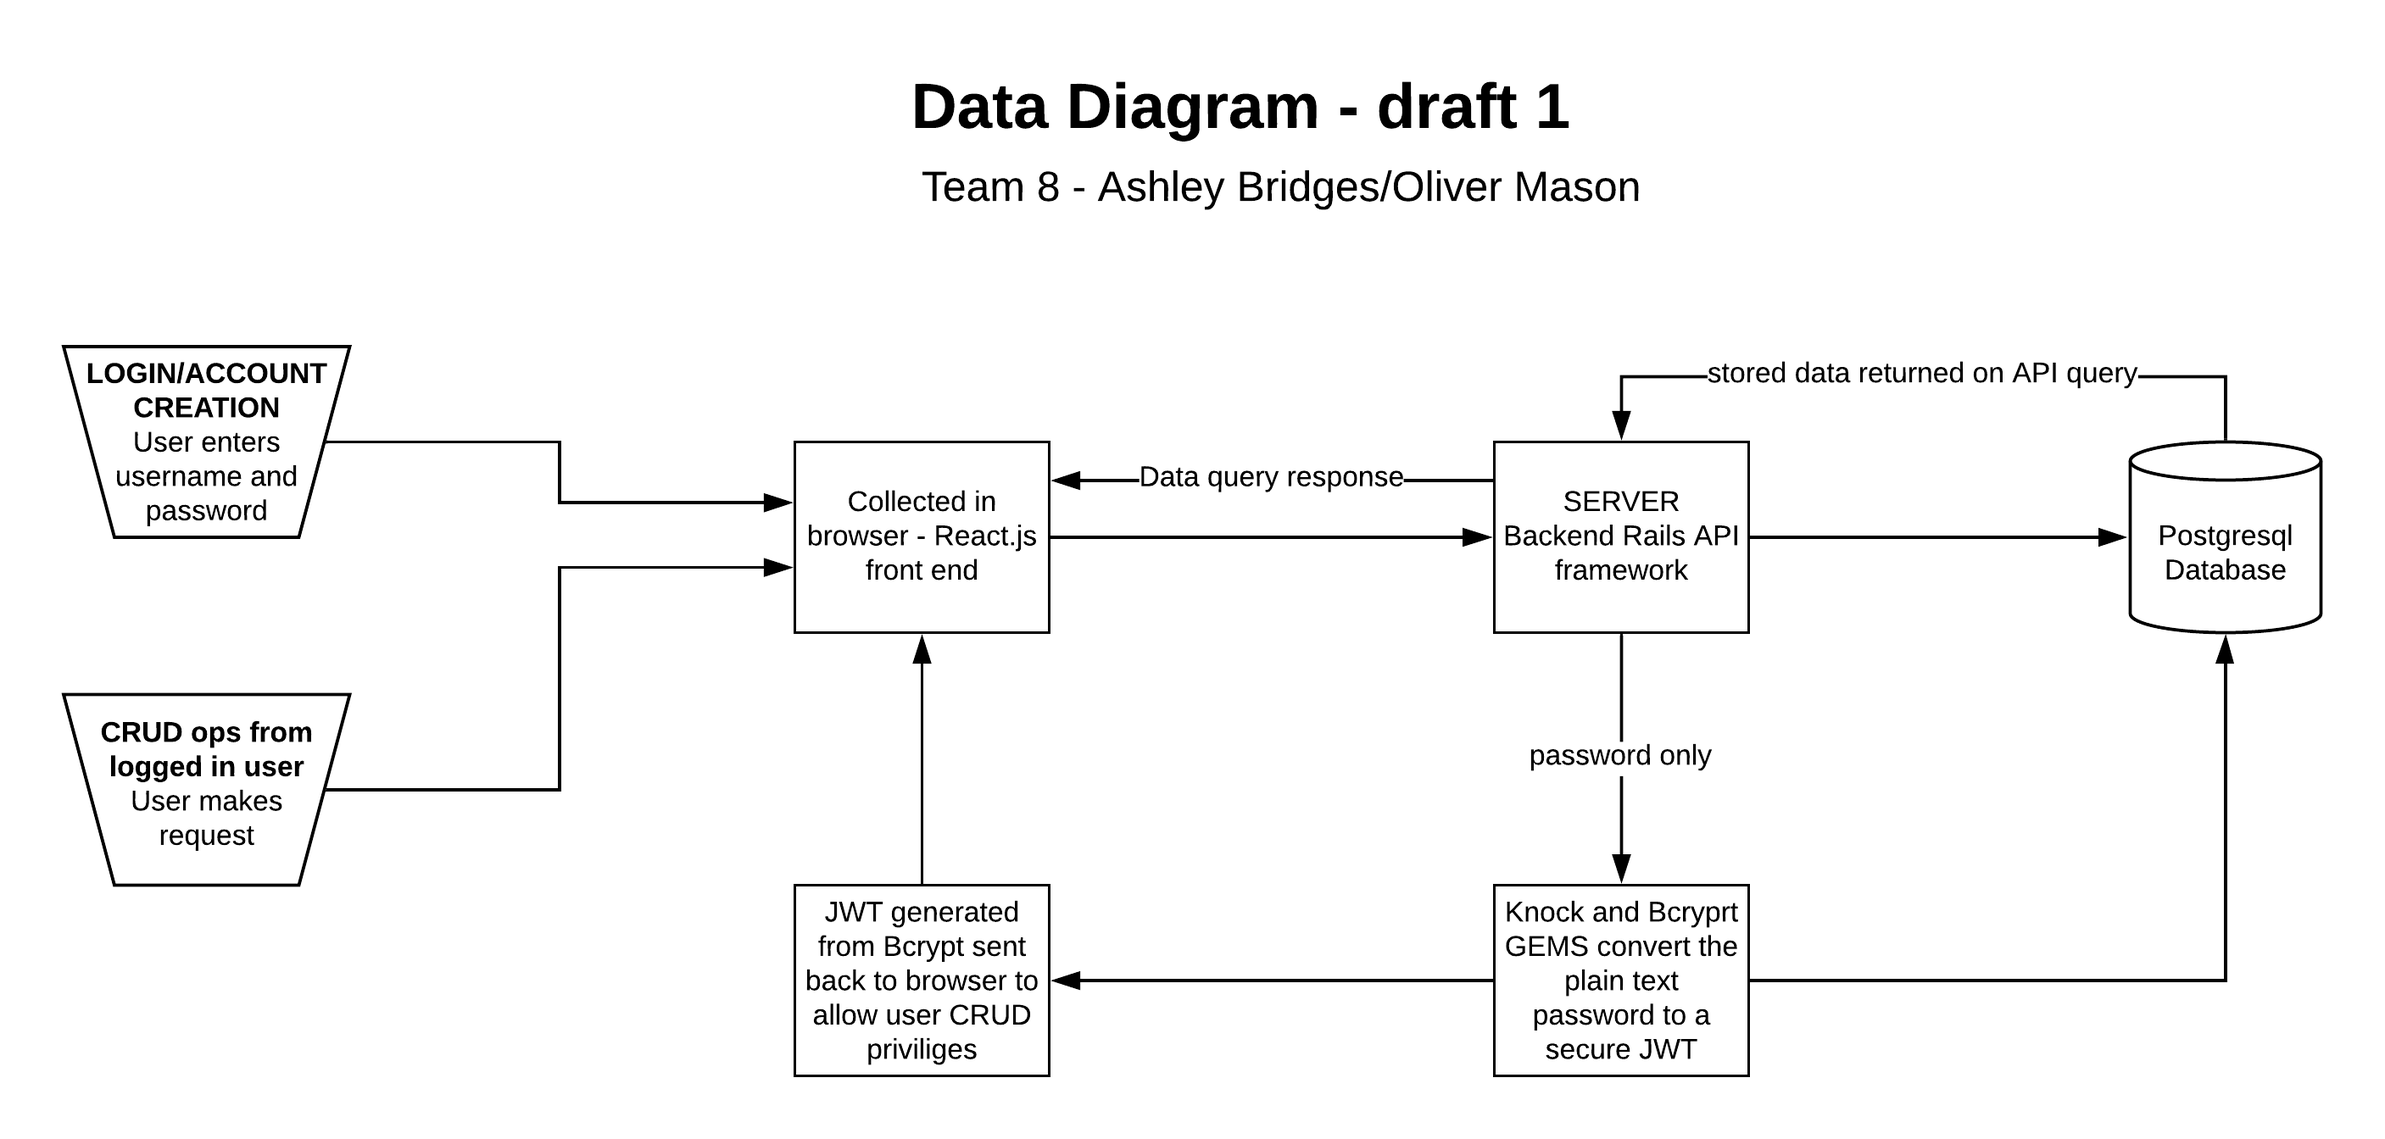
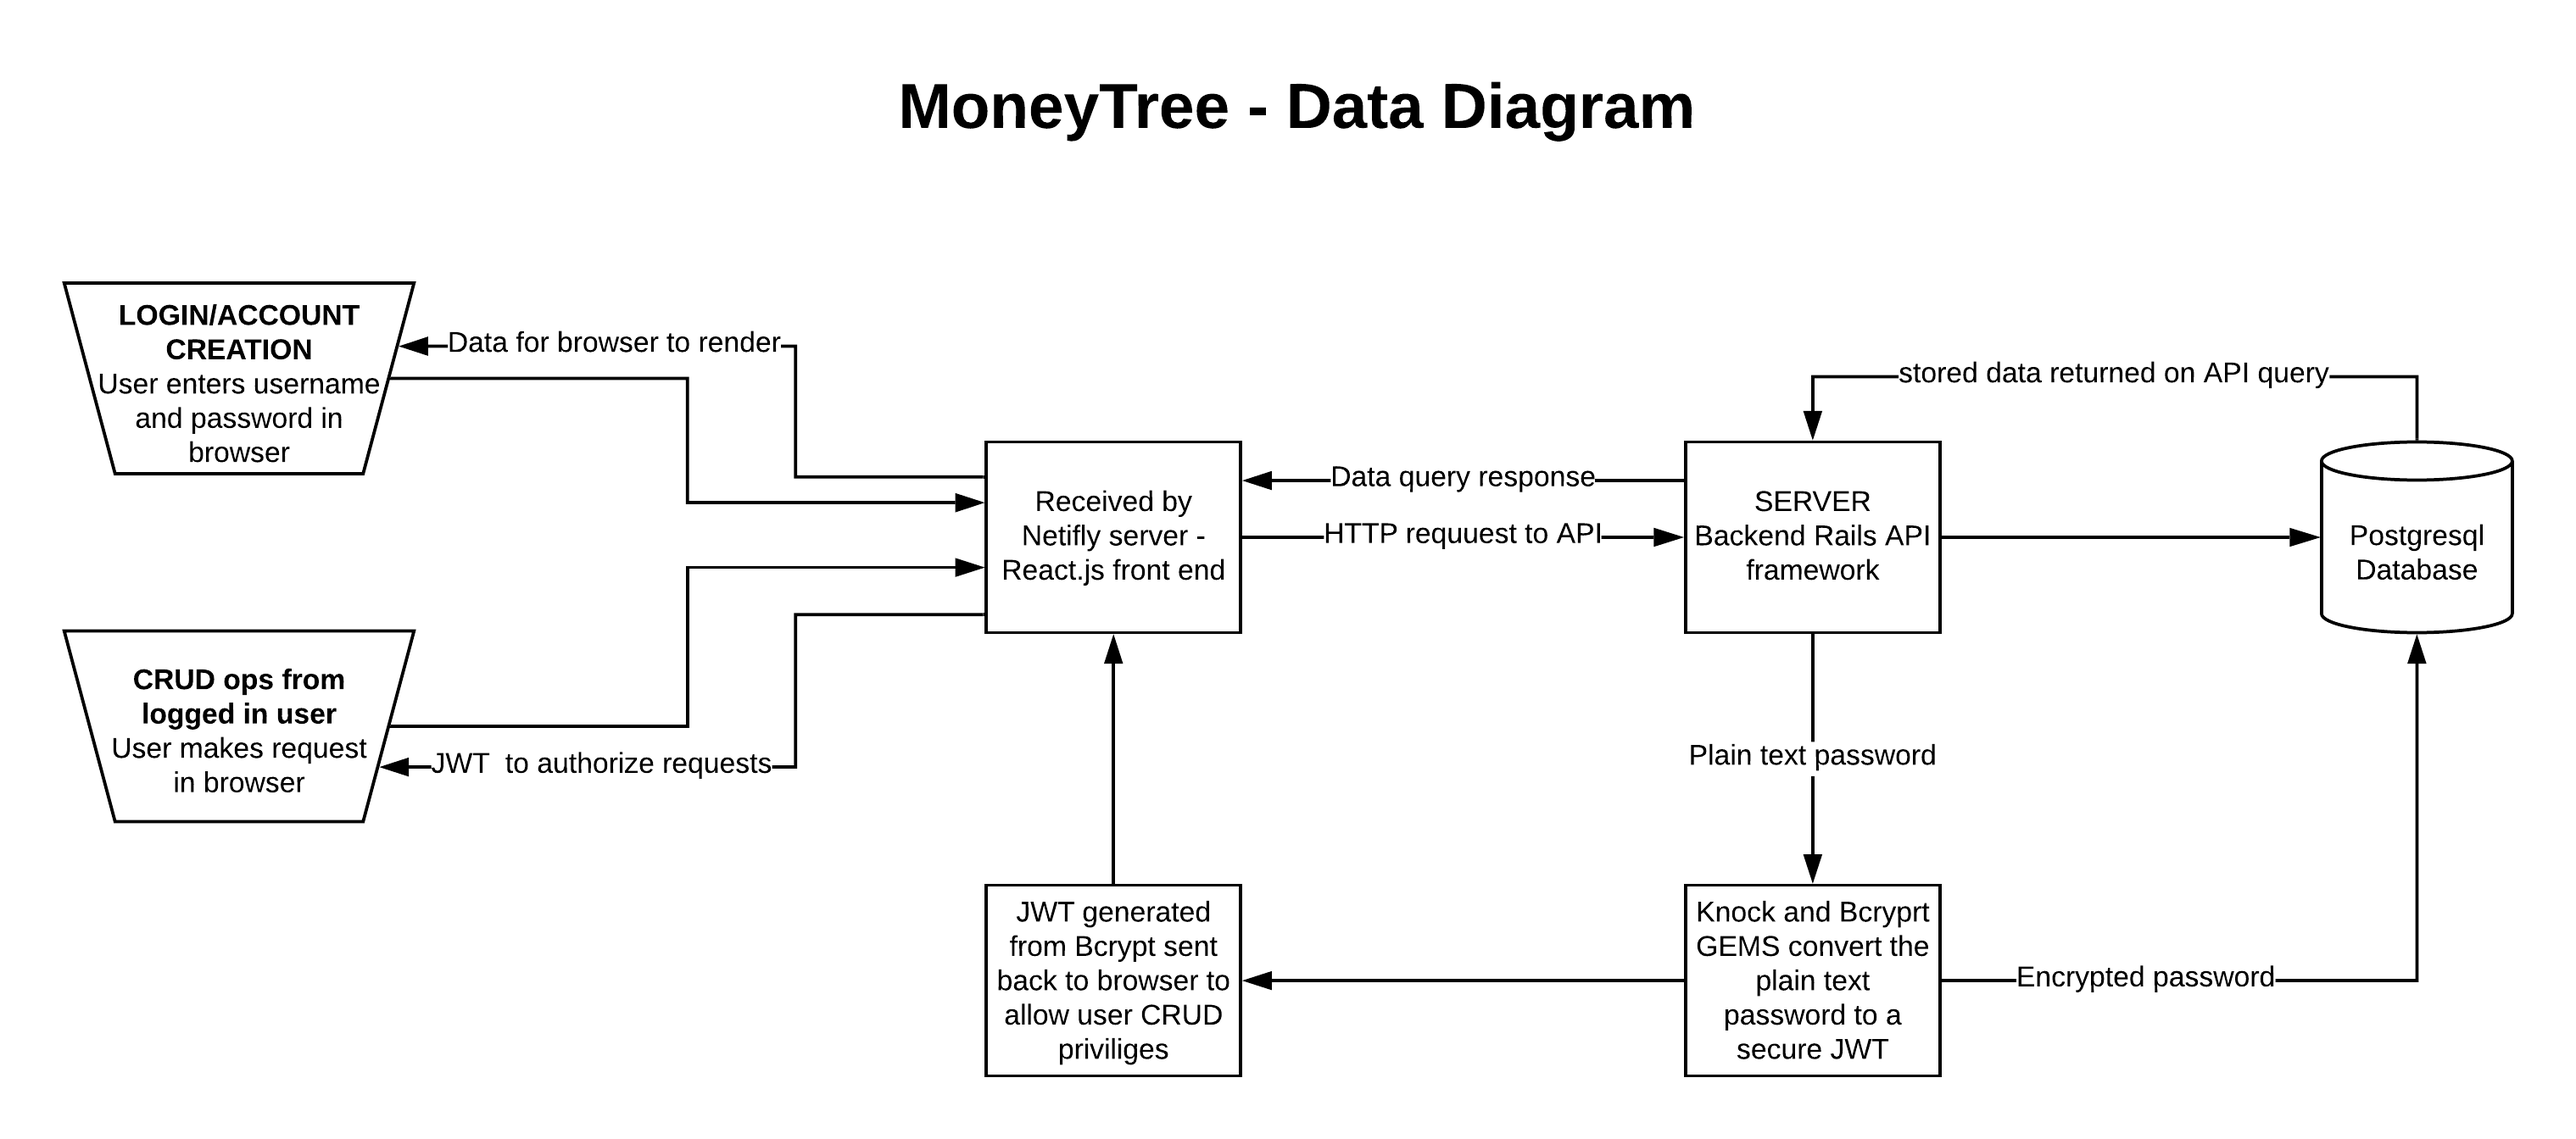
Finish first draft written docs

diff --git a/README.md b/README.md
@@ -51,16 +51,23 @@ Testing will be performed using cypress.js.
 
 ### R2 Dataflow Diagram
 
-Where is the data from, where does it go? What happens to it?
-Board components.
-User login and password.
-Any API's.
-ERD:
-
 <img src="Resources/DataDiagram.png">
+
+All data is initially input by the user in their browser. Upon hitting submit, the information is passed via the front end Netifly server to the Rails API.
+
+When creating an account, their plain text password will be converted in to a secure hash by Bcrypt, before being stored in the postgres database. At the same time a JSON Web Token will be returned to the user browser via the API, logging the user in.
+
+All future requests (whether view a page, or to create/edit/delete data) will require this JWT received back from the API to authenticate them. 
+
+All data will flow over and back over the same basic route (browser/front end/back end/database). As the user creates and edits board components in their browser, they are updating the values of the data held on the database - outlined below: 
 
 <img src="Resources/ERD.png">
 
+The database structure required for the app to function is very simple as not much information is being held.
+
+- The User entity exists to be able to create a user login profile which will be tied to their personalised and secure data.
+- A Column entity exists to create the vertical column categories displayed on the webpage. These in turn hold the main board tiles (which at times may be empty placeholders). A user can have many columns but every column can only have one user.
+- The board items, or tiles within the column entity only need basic  information to be able to perform useful analysis: a description, the dollar amount, whether it is an income or expense, the traffic light priority. A column can have zero or many tiles, and each tile belongs to only one column. 
 
 <hr>
 
@@ -73,6 +80,7 @@ High level overview of App components:
 - React front end, deployed on Netlify
 - React-Draggable 
 
+<img src="Resources/AADiagram.png">
 
 <hr>
 
